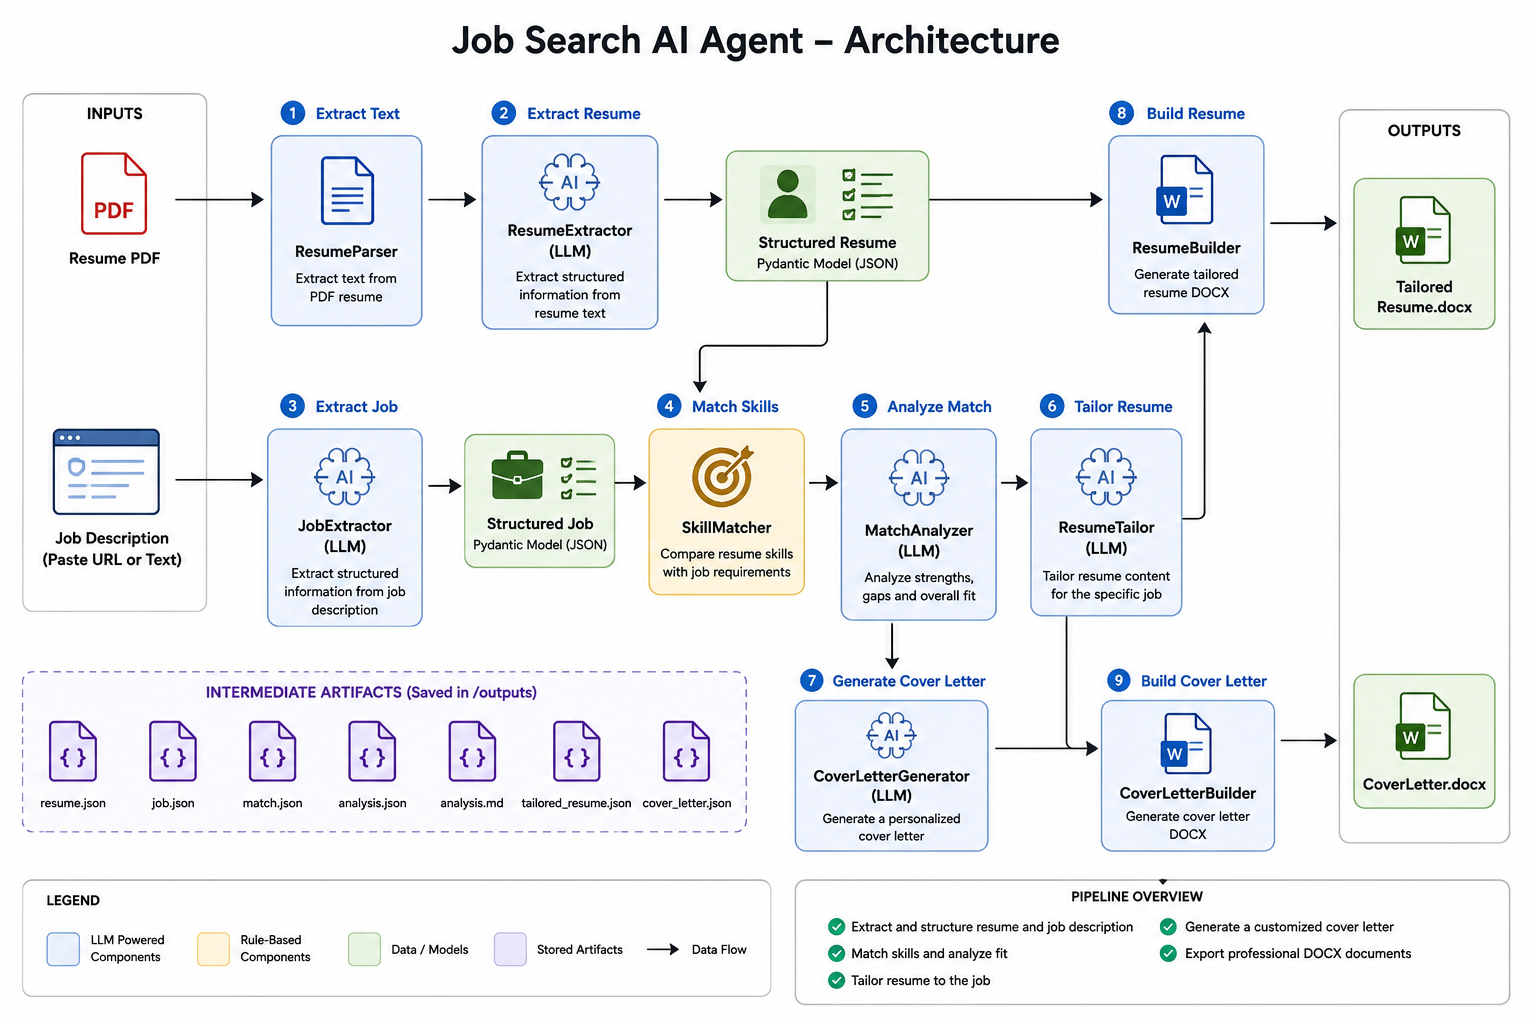
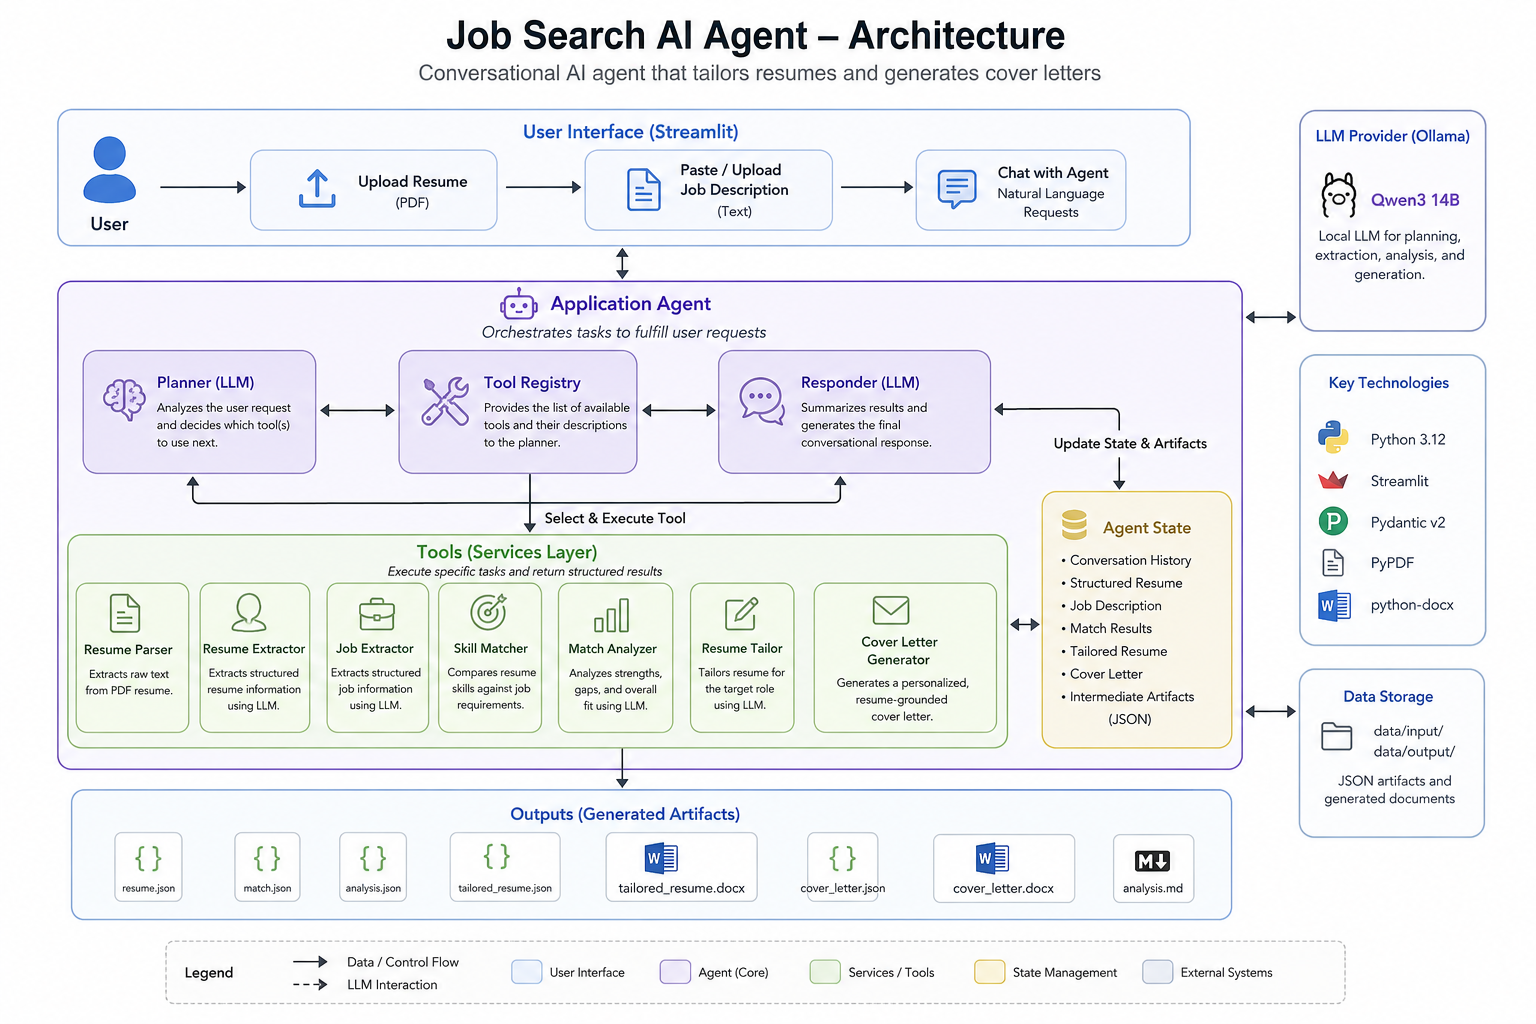
Update requirements and readme

Changed region(s): [[0.0312, 0.0, 1.0, 0.9688], [0.9062, 0.5625, 0.9375, 0.5938]]

diff --git a/README.md b/README.md
@@ -2,32 +2,44 @@
 
 ![Python](https://img.shields.io/badge/Python-3.12-blue)
 ![License](https://img.shields.io/badge/License-MIT-green)
+![Streamlit](https://img.shields.io/badge/UI-Streamlit-red)
 ![Pydantic](https://img.shields.io/badge/Pydantic-v2-red)
 ![Ollama](https://img.shields.io/badge/LLM-Ollama-purple)
 
-An AI-powered job application assistant that analyzes resumes and job descriptions, evaluates candidate fit, tailors resumes for specific roles, generates personalized, resume-grounded cover letters, and exports professional DOCX documents.
+An AI-powered conversational job application assistant that uses a modular LLM agent to analyze resumes, understand job descriptions, tailor resumes for specific roles, iteratively revise documents through natural language, generate personalized cover letters, and export professional DOCX documents.
 
-The project combines traditional software engineering with Large Language Models (LLMs) to automate the most time-consuming parts of the job application process while ensuring all generated content remains grounded in the candidate's actual experience.
+The application combines traditional software engineering principles with Large Language Models (LLMs) to automate the most time-consuming parts of the job application process while ensuring generated content remains grounded in the candidate's actual experience.
 
 ---
 
-## Features
+# Demo
 
-- Extract text from PDF resumes
-- Convert resumes into structured data using an LLM
-- Extract structured information from job descriptions
+<p align="center">
+    <img src="assets/demo.gif" width="100%">
+</p>
+
+---
+
+# Features
+
+- Upload PDF resumes
+- Extract structured resume information using an LLM
+- Parse job descriptions into structured data
 - Compare resume skills against job requirements
-- Analyze resume-job fit using an LLM
+- Analyze candidate strengths, weaknesses, and overall fit
 - Tailor resumes without inventing experience
+- Iteratively revise resumes through natural language conversation
 - Generate personalized, resume-grounded cover letters
-- Export professional resume and cover letter DOCX documents
-- Save intermediate JSON artifacts for transparency and debugging
+- Iteratively revise cover letters through conversation
+- Export professional DOCX resume and cover letter documents
+- Conversational Streamlit interface
+- Modular LLM agent with planning and tool execution
 
 ---
 
-## Architecture
+# Architecture
 
-The overall application pipeline is shown below.
+The overall application architecture is shown below.
 
 <p align="center">
     <img src="assets/architecture.png" width="100%">
@@ -35,9 +47,74 @@ The overall application pipeline is shown below.
 
 ---
 
-## Example Output
+# Agent Workflow
 
-### Tailored Resume
+The application processes each user request using a planning agent.
+
+```text
+User Request
+      │
+      ▼
+ Planner
+      │
+      ▼
+ Select Tool
+      │
+      ▼
+ Execute Tool
+      │
+      ▼
+ Update Agent State
+      │
+      ▼
+ Repeat Until Complete
+      │
+      ▼
+ Conversational Response
+```
+
+Depending on the user's request, the planner dynamically selects one or more tools, including:
+
+- Resume Extraction
+- Job Extraction
+- Skill Matching
+- Resume Analysis
+- Resume Tailoring
+- Cover Letter Generation
+
+This architecture allows the application to support conversational editing while maintaining a clean separation between planning, tool execution, and document generation.
+
+---
+
+# Example Conversation
+
+Example requests include:
+
+> Tailor my resume for this position.
+
+> Make my professional summary shorter.
+
+> Emphasize my machine learning experience.
+
+> Generate a cover letter.
+
+> Make the cover letter more enthusiastic.
+
+> Rewrite the second paragraph.
+
+---
+
+# Example Output
+
+## Streamlit Interface
+
+<p align="center">
+    <img src="assets/streamlit.png" width="95%">
+</p>
+
+---
+
+## Tailored Resume
 
 <p align="center">
     <img src="assets/resume.png" width="85%">
@@ -45,7 +122,7 @@ The overall application pipeline is shown below.
 
 ---
 
-### Generated Cover Letter
+## Generated Cover Letter
 
 <p align="center">
     <img src="assets/cover_letter.png" width="85%">
@@ -53,76 +130,39 @@ The overall application pipeline is shown below.
 
 ---
 
-### Pipeline Execution
-
-<p align="center">
-    <img src="assets/terminal.png" width="90%">
-</p>
-
----
-
-## Pipeline
-
-The application performs the following steps:
-
-1. Parse a PDF resume.
-2. Extract structured resume information using an LLM.
-3. Extract structured information from a job description.
-4. Compare resume skills against job requirements.
-5. Analyze candidate strengths, gaps, and overall match.
-6. Tailor the resume for the target role.
-7. Generate a personalized cover letter.
-8. Export both documents as professional DOCX files.
-
----
-
-## Project Structure
+# Project Structure
 
 ```text
 job-search-ai-agent/
 │
-├── assets/
-│   ├── architecture.png
-│   ├── cover_letter.png
-│   ├── resume.png
-│   └── terminal.png
+├── agent/
+│   ├── application_agent.py
+│   ├── planner.py
+│   ├── registry.py
+│   ├── responder.py
+│   ├── state.py
+│   └── tools/
 │
 ├── builders/
-│   ├── cover_letter_builder.py
-│   └── resume_builder.py
+│
+├── models/
+│
+├── pipeline/
+│
+├── prompts/
+│
+├── services/
+│
+├── ui/
+│
+├── assets/
 │
 ├── data/
 │   ├── input/
 │   └── output/
 │
-├── models/
-│   ├── analysis.py
-│   ├── cover_letter.py
-│   ├── job.py
-│   ├── match.py
-│   ├── resume.py
-│   └── tailored_resume.py
-│
-├── prompts/
-│   ├── cover_letter_prompt.py
-│   ├── job_prompt.py
-│   ├── match_prompt.py
-│   ├── resume_prompt.py
-│   └── tailor_prompt.py
-│
-├── services/
-│   ├── cover_letter_generator.py
-│   ├── job_extractor.py
-│   ├── llm.py
-│   ├── match_analyzer.py
-│   ├── resume_extractor.py
-│   ├── resume_parser.py
-│   ├── resume_tailor.py
-│   └── skill_matcher.py
-│
-├── utils/
+├── streamlit_app.py
 ├── config.py
-├── main.py
 ├── requirements.txt
 ├── LICENSE
 └── README.md
@@ -130,26 +170,40 @@ job-search-ai-agent/
 
 ---
 
-## Technologies
+# Technologies
 
-### AI
+## AI
 
 - Ollama
 - Qwen3 14B
 - Pydantic
 
-### Python
+## Backend
+
+- Python
+- Streamlit
+
+## Document Processing
 
 - PyPDF
 - python-docx
 
-### Development
+## Architecture
+
+- LLM Planning Agent
+- Tool Registry
+- Modular Service Layer
+- Stateful Conversation Management
+
+## Development
 
 - Ruff
+- Black
+- Pytest
 
 ---
 
-## Installation
+# Installation
 
 Clone the repository.
 
@@ -172,61 +226,80 @@ Pull the default model.
 ollama pull qwen3:14b
 ```
 
-Verify the model name in `config.py` if using a different model.
+If you use a different model, update the configuration accordingly.
 
 ---
 
-## Usage
+# Usage
 
-Place your input files in:
-
-```text
-data/input/
-├── resume.pdf
-└── job.txt
-```
-
-Run the application.
+Start the application.
 
 ```bash
-python main.py
+streamlit run streamlit_app.py
 ```
 
-The application generates:
+Upload:
 
-```text
-data/output/
-├── analysis.json
-├── analysis.md
-├── cover_letter.docx
-├── cover_letter.json
-├── match.json
-├── resume.json
-├── tailored_resume.docx
-└── tailored_resume.json
-```
+- A PDF resume
+- A job description
 
-Replace the example input files with your own resume and target job description to generate customized application materials.
+Then interact with the assistant through natural language.
+
+Examples:
+
+- Tailor my resume for this role.
+- Generate a cover letter.
+- Make the summary more concise.
+- Highlight my leadership experience.
+- Rewrite the cover letter to sound more confident.
+
+Generated documents can be downloaded directly from the application.
 
 ---
 
-## Future Improvements
+# How It Works
 
-- Streamlit web interface
-- Batch processing for multiple job postings
-- Interview question generation
+The application uses a modular planning agent to process each request.
+
+1. Parse the uploaded PDF resume.
+2. Extract structured resume information using an LLM.
+3. Extract structured information from the job description.
+4. Compare resume skills against job requirements.
+5. Analyze strengths, weaknesses, and overall fit.
+6. Tailor the resume.
+7. Generate or revise a cover letter.
+8. Export professional DOCX documents.
+9. Continue refining documents through conversation.
+
+---
+
+# Design Goals
+
+- Maintain factual consistency with the original resume
+- Never invent work experience or skills
+- Keep generated documents grounded in the candidate's background
+- Support iterative editing through conversation
+- Separate planning, tool execution, and document generation into modular components
+
+---
+
+# Future Improvements
+
+- Support additional LLM providers
 - Resume version comparison
 - ATS compatibility scoring
-- Application history dashboard
+- Interview question generation
+- Batch processing for multiple job descriptions
+- Application history and document management
 
 ---
 
-## Disclaimer
+# Disclaimer
 
 This project assists with resume tailoring and cover letter generation using Large Language Models. All generated documents should be reviewed before submitting job applications.
 
 ---
 
-## License
+# License
 
 This project is licensed under the MIT License. See the `LICENSE` file for details.